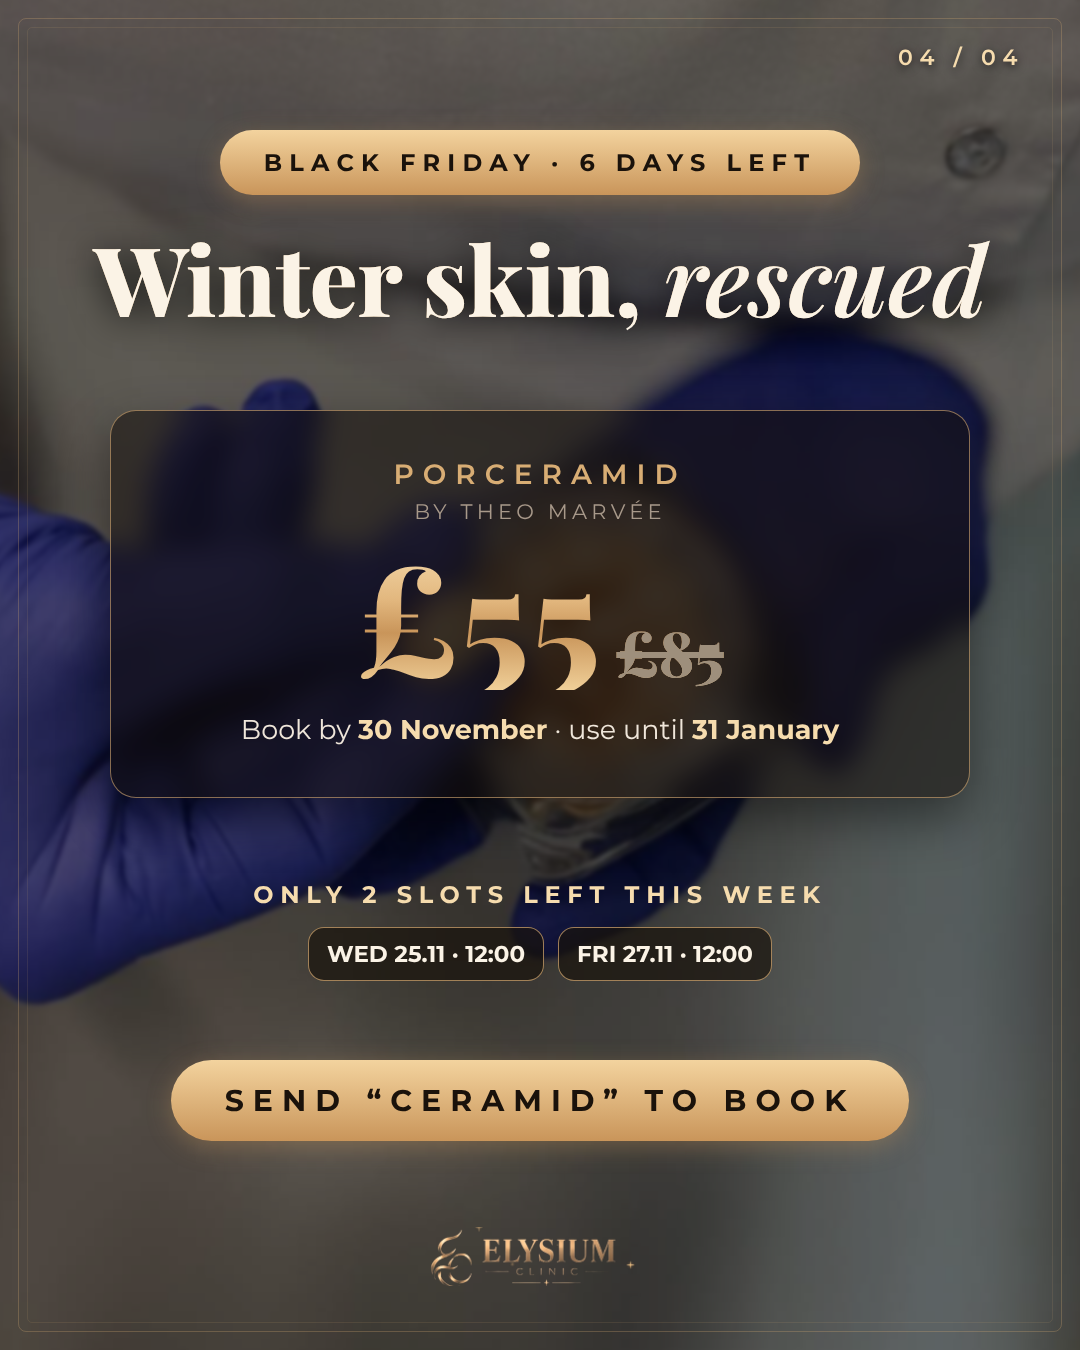
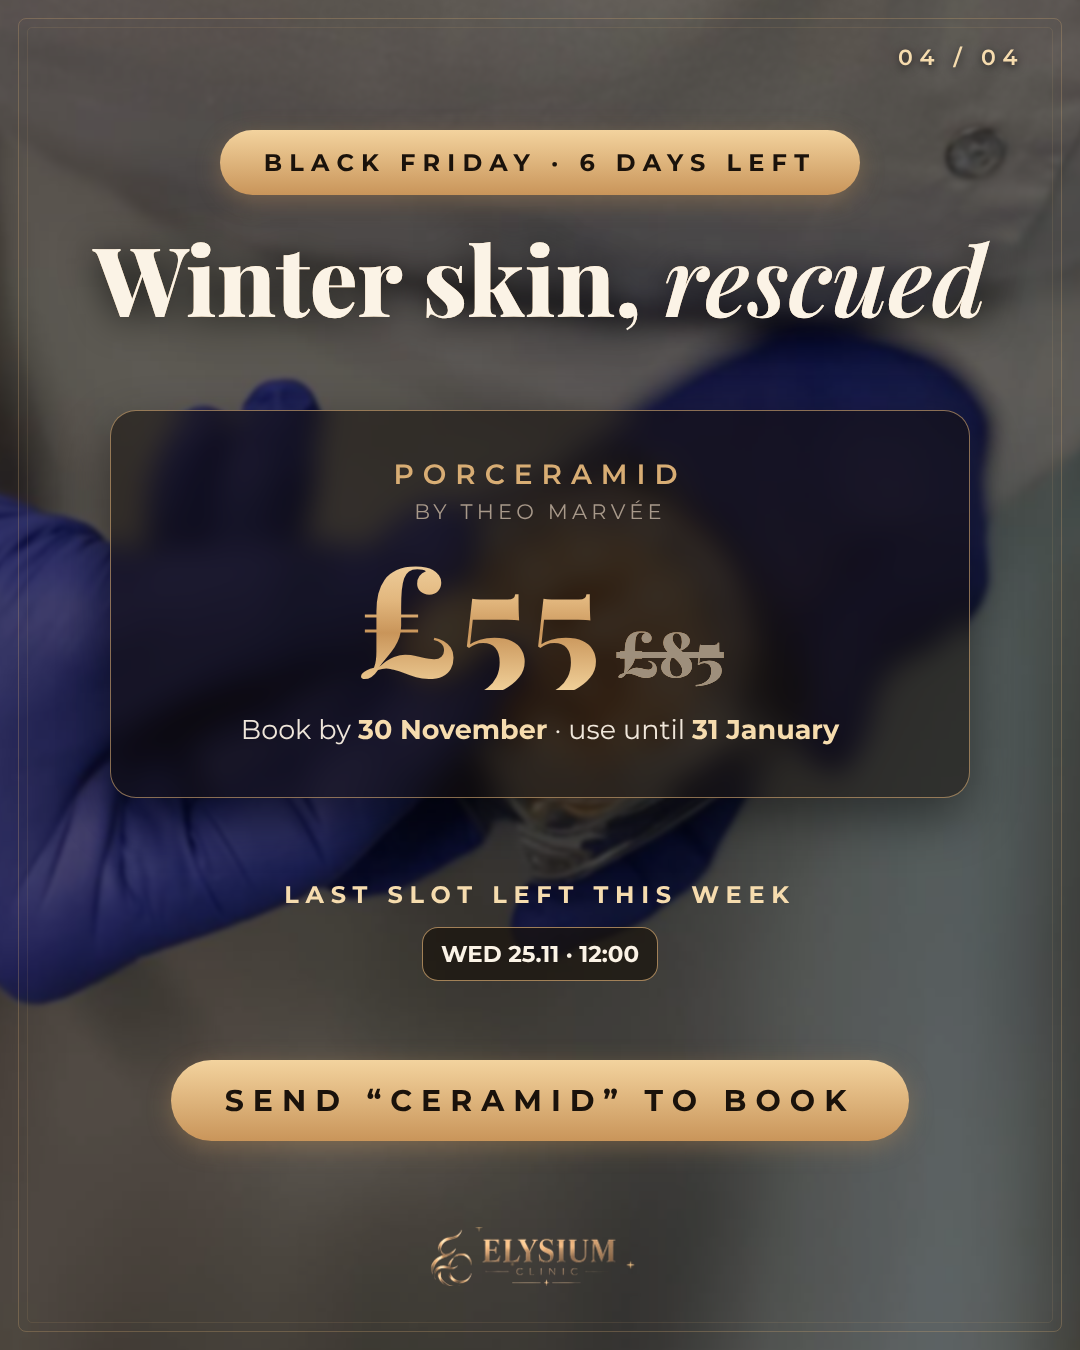
24.11: last slot left this week (Fri booked)
Claude-Session: https://claude.ai/code/session_01SaUhS5EeEBn7oMfuXG8zXf

Changed region(s): [[0.2444, 0.6533, 0.7639, 0.7467]]

diff --git a/posts_24_11/src/p_4.html b/posts_24_11/src/p_4.html
@@ -6,7 +6,7 @@
 <div style="font-size:21px;letter-spacing:.2em;color:#a8998a;margin-top:8px">BY THEO MARVÉE</div>
 <div class="goldtext" style="font-family:'Playfair Display',serif;font-size:150px;font-weight:800;line-height:1;margin-top:16px">£55<s style="font-size:62px;color:#9e8f7c;-webkit-text-fill-color:#9e8f7c;margin-left:16px">£85</s></div>
 <div style="font-size:27px;line-height:1.6;color:#efe6da;margin-top:18px">Book by <b style="color:#f6dcae">30 November</b> · use until <b style="color:#f6dcae">31 January</b></div></div>
-<div style="position:absolute;left:0;right:0;top:880px;text-align:center"><div style="font-size:24px;letter-spacing:.28em;color:var(--gold1);font-weight:700">ONLY 2 SLOTS LEFT THIS WEEK</div>
-<div style="display:flex;justify-content:center;gap:14px;margin-top:18px"><span style="font-size:23px;font-weight:700;color:#fbf3e6;padding:12px 18px;border-radius:16px;border:1.5px solid rgba(216,173,116,.7);background:rgba(24,18,12,.7)">WED 25.11 · 12:00</span><span style="font-size:23px;font-weight:700;color:#fbf3e6;padding:12px 18px;border-radius:16px;border:1.5px solid rgba(216,173,116,.7);background:rgba(24,18,12,.7)">FRI 27.11 · 12:00</span></div></div>
+<div style="position:absolute;left:0;right:0;top:880px;text-align:center"><div style="font-size:24px;letter-spacing:.28em;color:var(--gold1);font-weight:700">LAST SLOT LEFT THIS WEEK</div>
+<div style="display:flex;justify-content:center;gap:14px;margin-top:18px"><span style="font-size:23px;font-weight:700;color:#fbf3e6;padding:12px 18px;border-radius:16px;border:1.5px solid rgba(216,173,116,.7);background:rgba(24,18,12,.7)">WED 25.11 · 12:00</span></div></div>
 <div style="position:absolute;left:0;right:0;top:1060px;text-align:center"><div class="pill" style="font-size:30px;padding:22px 54px">SEND “CERAMID” TO BOOK</div></div>
 <div style="position:absolute;left:0;right:0;bottom:60px;text-align:center"><img src="logo.png" style="width:220px"></div></div></body></html>

diff --git a/posts_24_11/src/s3_2030.html b/posts_24_11/src/s3_2030.html
@@ -23,7 +23,7 @@
 <div class="card glass"><div class="name">PORCERAMID</div><div class="by">BY THEO MARVÉE</div>
 <div class="price goldtext">£55<s>£85</s></div>
 <div class="list">Ceramides rebuild your skin barrier<br><b>Book by 30.11 · use until 31.01</b></div></div>
-<div class="slots"><div class="pill" style="font-size:26px">ONLY 2 SLOTS LEFT THIS WEEK</div><div class="dates">__DATES__</div></div>
+<div class="slots"><div class="pill" style="font-size:26px">LAST SLOT LEFT THIS WEEK</div><div class="dates">__DATES__</div></div>
 <div class="zone" style="top:1390px">BOOK YOUR SLOT ↓</div>
 <div class="zone" style="top:1600px;font-size:20px;color:rgba(239,230,218,.6)">or send “CERAMID” in DM</div>
 <div class="logo"><img src="logo.png"></div></div></body></html>

diff --git a/posts_24_11/src/dates.html b/posts_24_11/src/dates.html
@@ -1,1 +1,1 @@
-<span style="font-size:23px;font-weight:700;color:#fbf3e6;padding:12px 18px;border-radius:16px;border:1.5px solid rgba(216,173,116,.7);background:rgba(24,18,12,.7)">WED 25.11 · 12:00</span><span style="font-size:23px;font-weight:700;color:#fbf3e6;padding:12px 18px;border-radius:16px;border:1.5px solid rgba(216,173,116,.7);background:rgba(24,18,12,.7)">FRI 27.11 · 12:00</span>
+<span style="font-size:23px;font-weight:700;color:#fbf3e6;padding:12px 18px;border-radius:16px;border:1.5px solid rgba(216,173,116,.7);background:rgba(24,18,12,.7)">WED 25.11 · 12:00</span>

diff --git a/posts_24_11/teksty.md b/posts_24_11/teksty.md
@@ -1,7 +1,7 @@
 # Wt 24.11: PorCerAmid, porcelanowa skóra. Karuzela + 3 stories
 
 Feed (dni robocze): **19:00–20:00**. Stories: **8:30 · 13:00 · 20:30**. Słowo-klucz: **CERAMID**.
-PorCerAmid (Theo Marvée): £55 zamiast £85. Wolne terminy w tym tygodniu: śr 25.11 12:00 · pt 27.11 12:00 (czwartek zajęty).
+PorCerAmid (Theo Marvée): £55 zamiast £85. Wolne terminy w tym tygodniu: tylko śr 25.11 12:00 (czwartek i piątek zajęte).
 Grafiki tylko po angielsku.
 
 Plan przewidywał rolkę R6 (nakładanie PorCerAmid pędzelkiem). Bez nagrania jest karuzela z tym samym przekazem. Jeśli nagrasz zabieg, zmontuję rolkę na inny dzień.
@@ -12,7 +12,7 @@ Plan przewidywał rolkę R6 (nakładanie PorCerAmid pędzelkiem). Bez nagrania j
 1. „Dry, tight, tired skin?”: zimą bariera skóry codziennie traci wodę
 2. „Ceramides are the cement”: murek z ceramidami i bez, PorCerAmid odbudowuje barierę
 3. „Porcelain glow”: gładka i miękka skóra, spokojniejszy koloryt, bez igieł i rekonwalescencji
-4. Oferta: £55 zamiast £85 · book by 30.11 · use until 31.01 · ONLY 2 SLOTS (śr/pt) · Send “CERAMID”
+4. Oferta: £55 zamiast £85 · book by 30.11 · use until 31.01 · LAST SLOT (śr 12:00) · Send “CERAMID”
 
 ### Opis (EN)
 Dry, tight, tired skin this winter? 🥶 It’s not just the weather, it’s your skin barrier asking for help.
@@ -26,7 +26,7 @@ Ceramides are the “cement” between your skin cells. When there aren’t enou
 ✔ no needles, no downtime
 
 🖤 Black Friday: £55 (was £85). Book by 30 November and use any time until 31 January
-⏳ Only 2 slots left this week: Wed 25.11 at 12:00 and Fri 27.11 at 12:00
+⏳ Last slot left this week: Wednesday 25.11 at 12:00
 
 💬 Send “CERAMID” to grab one
 🔖 Save this for your winter skincare
@@ -38,7 +38,7 @@ Ceramides are the “cement” between your skin cells. When there aren’t enou
 ### Opis (PL, krótko: relacje / grupy FB)
 Sucha, ściągnięta skóra zimą? 🥶 To bariera skóry prosi o pomoc. PorCerAmid (Theo Marvée) dostarcza ceramidy, które odbudowują barierę. Efekt to gładka, spokojna skóra z porcelanowym blaskiem, bez igieł i bez rekonwalescencji.
 🖤 £55 zamiast £85. Zarezerwuj do 30.11, a z zabiegu skorzystasz do końca stycznia.
-⏳ W tym tygodniu zostały 2 terminy: śr 12:00 i pt 12:00. Napisz CERAMID.
+⏳ W tym tygodniu został ostatni termin: środa 12:00. Napisz CERAMID.
 #PolkiWUK #KosmetologBradford #BradfordSkinClinic
 
 ---
@@ -55,11 +55,11 @@ Sucha, ściągnięta skóra zimą? 🥶 To bariera skóry prosi o pomoc. PorCerA
 
 ## STORY 3 (20:30): `story3_2030_porceramid_terminy.png`
 - Najpierw udostępnij karuzelę z naklejką „New post”, potem tę planszę.
-- „Porcelain skin awaits”, £55 zamiast £85, „ONLY 2 SLOTS LEFT THIS WEEK” i terminy (śr 12:00, pt 12:00).
+- „Porcelain skin awaits”, £55 zamiast £85, „LAST SLOT LEFT THIS WEEK”: śr 25.11 · 12:00.
 - **Naklejka Link** (Fresha) pod „BOOK YOUR SLOT ↓” i **odliczanie** do 30.11.
 
 ## Odpowiedź na ankietę / DM „CERAMID” (szablon)
-Hi! Thank you 🤍 Those are classic signs that your skin barrier needs some support, which is very common in winter. PorCerAmid rebuilds the barrier with ceramides, so your skin feels smooth, calm and comfortable again. It’s £55 instead of £85 this Black Friday. This week I have Wednesday at 12:00 or Friday at 12:00. Would one of those suit you?
+Hi! Thank you 🤍 Those are classic signs that your skin barrier needs some support, which is very common in winter. PorCerAmid rebuilds the barrier with ceramides, so your skin feels smooth, calm and comfortable again. It’s £55 instead of £85 this Black Friday. This week I have just one slot left: Wednesday at 12:00. Would that suit you?
 
 ## STORY dodatkowe (ok. 16:00): pakiet `story_pakiet_glow_before_christmas.png`
 - „Glow before Christmas”: Hydrogen Pure Glow + PorCerAmid za **£75** (wartość £160 wg cen regularnych £75 + £85, oszczędność £85).
@@ -68,4 +68,4 @@ Hi! Thank you 🤍 Those are classic signs that your skin barrier needs some sup
 - Możesz też wrzucić je o 13:00 zamiast story o barierze. Plan przewidywał pakiet właśnie na 13:00.
 
 ### Odpowiedź na „GLOW” przy pakiecie (szablon)
-Hi! 🤍 Our Glow before Christmas package combines Hydrogen Pure Glow (deep cleanse and instant glow) with PorCerAmid (ceramides for smooth, calm skin), both in one visit for £75 instead of £160. It’s the perfect pre-party treat! This week I have Wednesday at 12:00 or Friday at 12:00. Shall I book one for you?
+Hi! 🤍 Our Glow before Christmas package combines Hydrogen Pure Glow (deep cleanse and instant glow) with PorCerAmid (ceramides for smooth, calm skin), both in one visit for £75 instead of £160. It’s the perfect pre-party treat! This week I have just one slot left: Wednesday at 12:00. Shall I book it for you?
